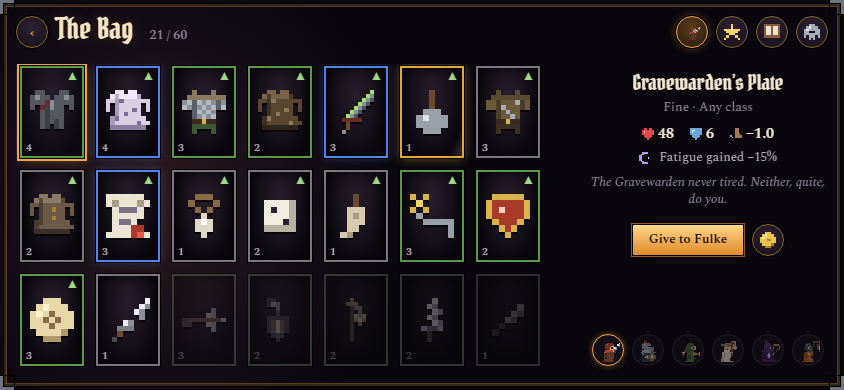
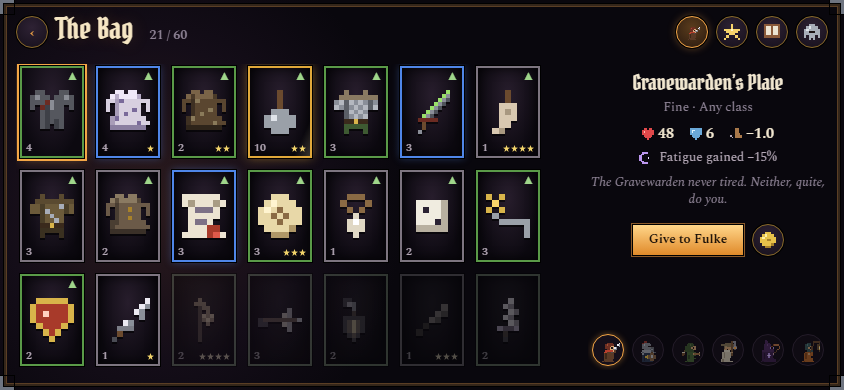
The Bag's check gives a few pieces stars; its screenshots show them

diff --git a/tools/bag_heroes_check.py b/tools/bag_heroes_check.py
@@ -46,7 +46,7 @@ SETUP = """
     ['travellerscoat', 2], ['brigandine', 3], ['gravediggersleathers', 2], ['huntershauberk', 3], ['gravewardensplate', 4], ['mothsilk', 4],
     ['bonecharm', 1], ['knucklebone', 2], ['haresfoot', 1], ['courierspur', 3], ['vanguardsbadge', 2], ['tallowcoin', 3], ['bloodcontract', 3]]) Items.add(s, Items.make(id, lv));
   Items.grantRelic(s, 'gravediggersspade');
-  for (const x of s.inventory.items) delete x.fresh;
+  s.inventory.items.forEach((x, i) => { delete x.fresh; if (i % 3 === 0 && Items.rarity(x) !== 'relic') Items.enchant(x, makeRng(i + 7), { stars: 1 + (i % 4) }); }); // a few with stars (#42)
   Base.tick(s);
   Save.commit();
   App.go('home', {}, { instant: true });
